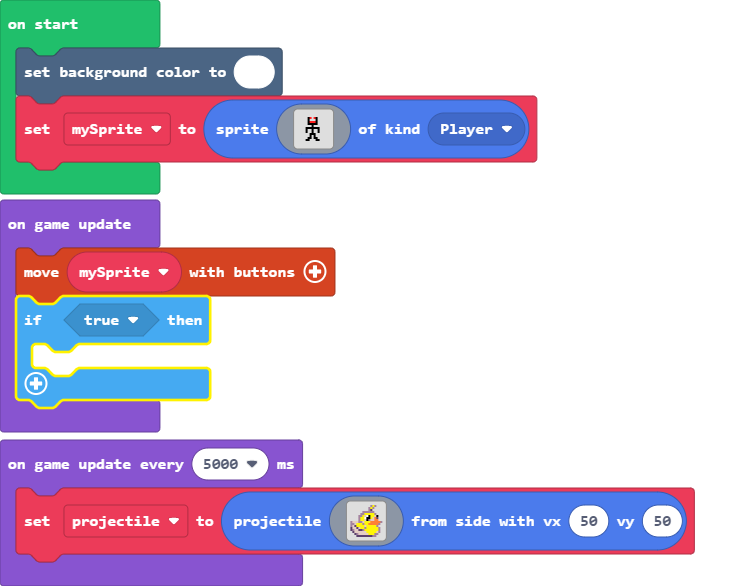
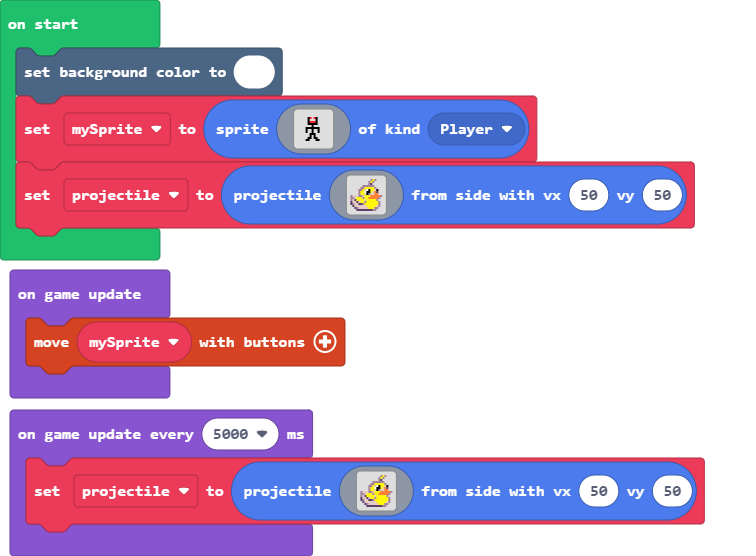
Update main.blocks, main.ts

diff --git a/main.ts b/main.ts
@@ -1,4 +1,3 @@
-let projectile: Sprite = null
 scene.setBackgroundColor(1)
 let mySprite = sprites.create(img`
     . . . . . . . . . . . . . . . . 
@@ -18,11 +17,26 @@ let mySprite = sprites.create(img`
     . . . . . . . . . . . . . . . . 
     . . . . . . . . . . . . . . . . 
     `, SpriteKind.Player)
+let projectile = sprites.createProjectileFromSide(img`
+    . . . . . . . . . . b 5 b . . . 
+    . . . . . . . . . b 5 b . . . . 
+    . . . . . . . . . b c . . . . . 
+    . . . . . . b b b b b b . . . . 
+    . . . . . b b 5 5 5 5 5 b . . . 
+    . . . . b b 5 d 1 f 5 5 d f . . 
+    . . . . b 5 5 1 f f 5 d 4 c . . 
+    . . . . b 5 5 d f b d d 4 4 . . 
+    b d d d b b d 5 5 5 4 4 4 4 4 b 
+    b b d 5 5 5 b 5 5 4 4 4 4 4 b . 
+    b d c 5 5 5 5 d 5 5 5 5 5 b . . 
+    c d d c d 5 5 b 5 5 5 5 5 5 b . 
+    c b d d c c b 5 5 5 5 5 5 5 b . 
+    . c d d d d d d 5 5 5 5 5 d b . 
+    . . c b d d d d d 5 5 5 b b . . 
+    . . . c c c c c c c c b b . . . 
+    `, 50, 50)
 game.onUpdate(function () {
     controller.moveSprite(mySprite)
-    if (true) {
-    	
-    }
 })
 game.onUpdateInterval(5000, function () {
     projectile = sprites.createProjectileFromSide(img`
